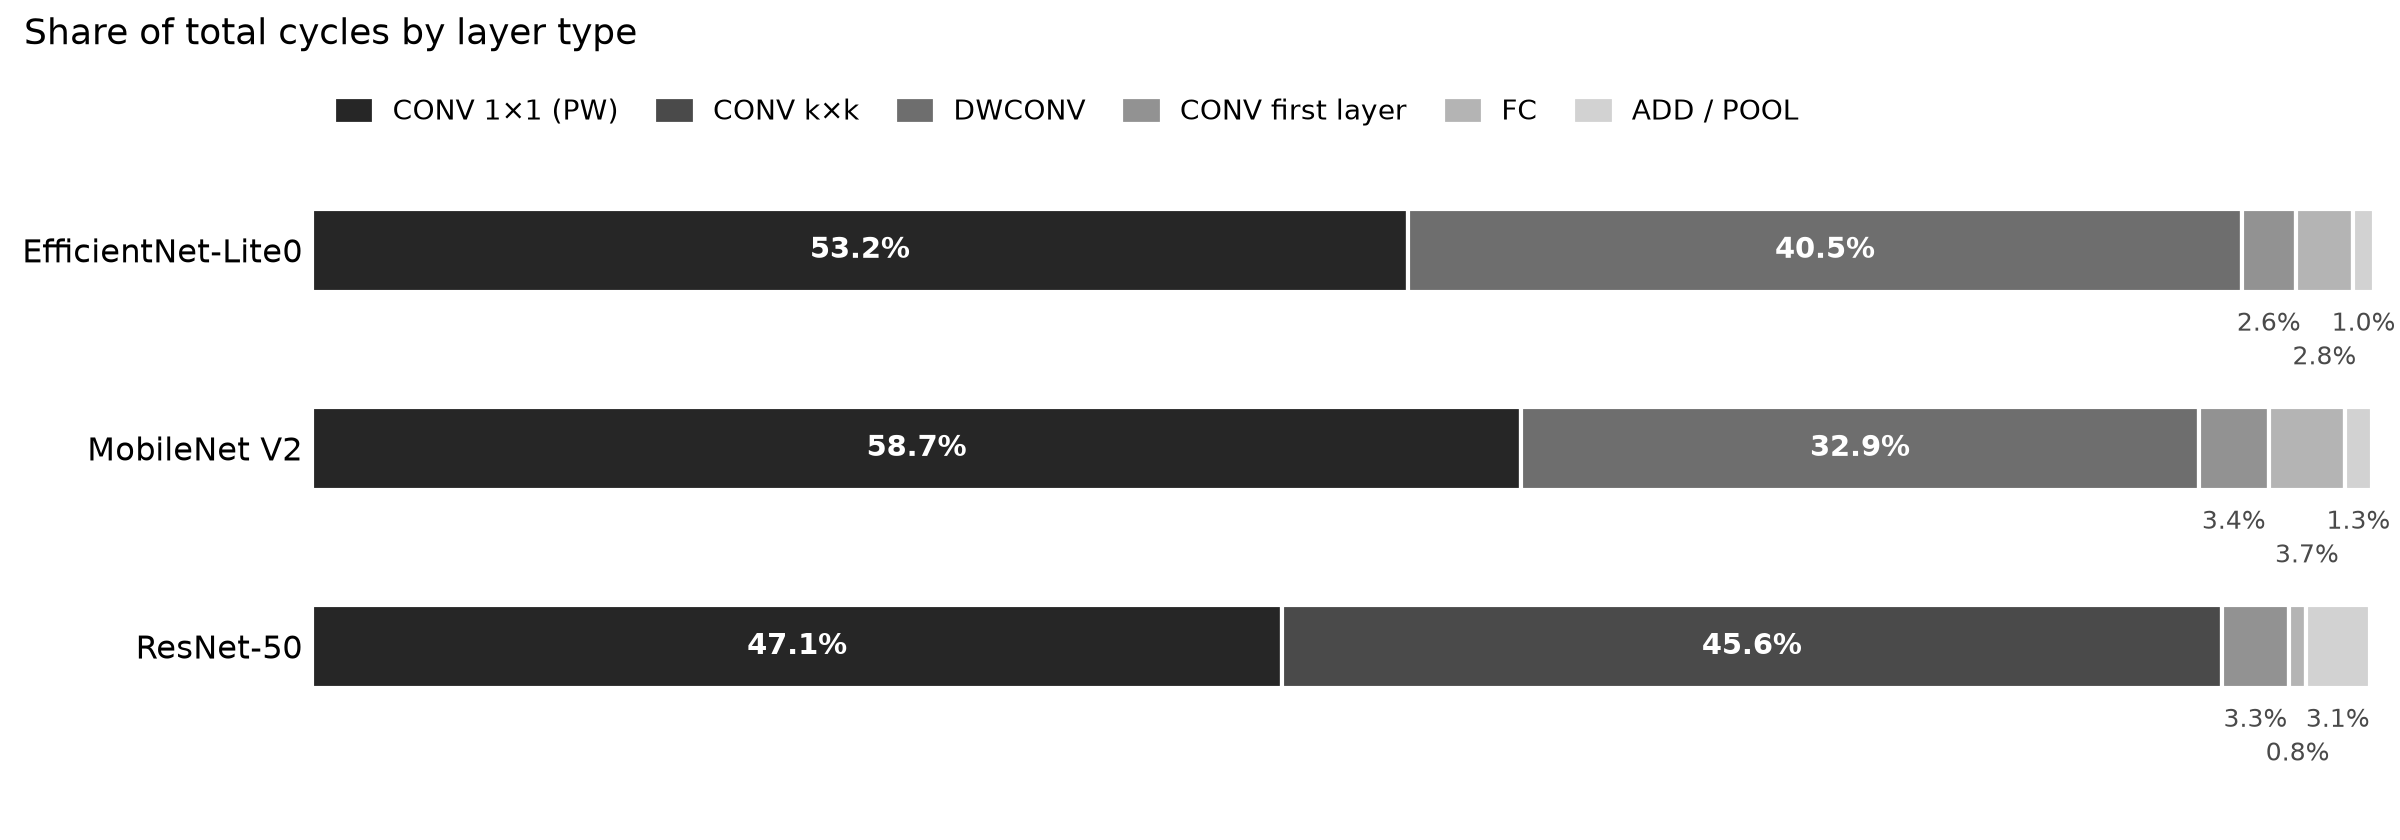
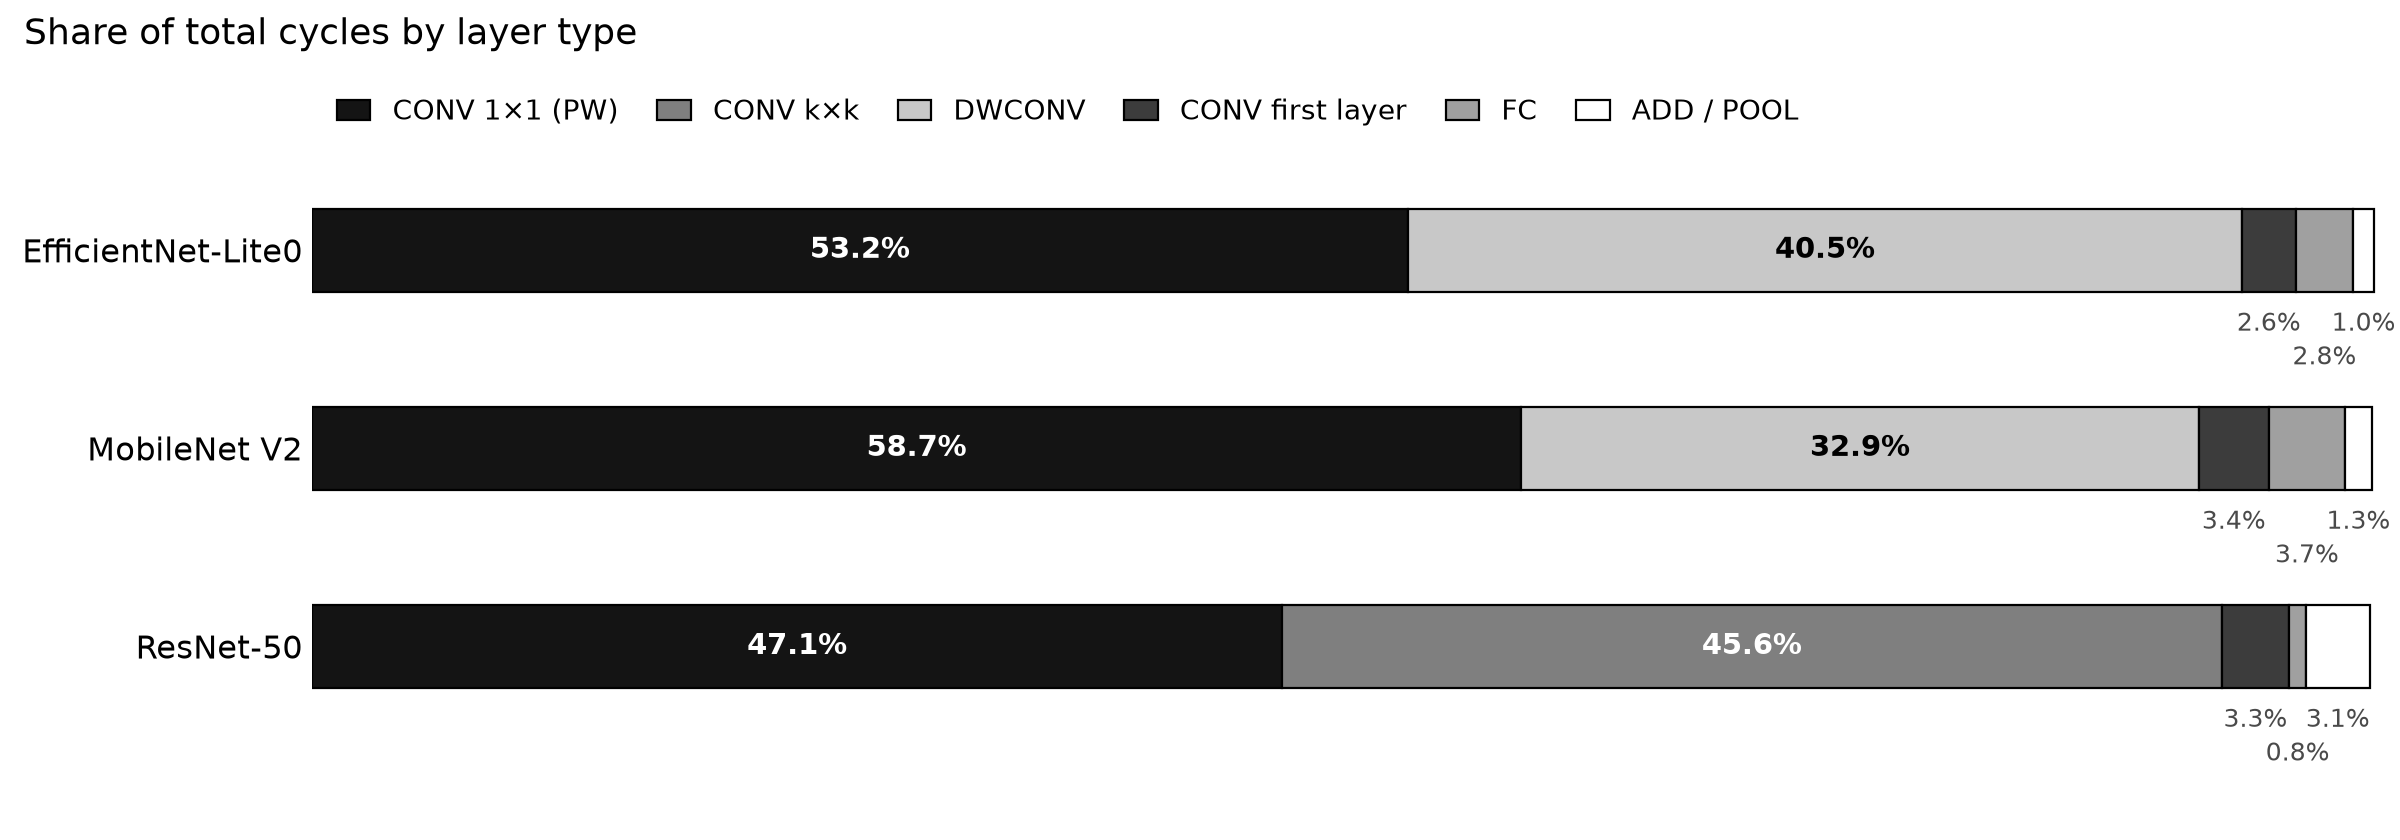
Update README table, PE array naming in figure, layer share chart colors

diff --git a/hw/draw_system_architecture.py b/hw/draw_system_architecture.py
@@ -95,7 +95,7 @@ class Figure:
 
     def array(self, key, x, y, w, h, index):
         self.rect(key, x, y, w, h)
-        self.text(x + w/2, y + 37, f'WS array {index}', 31, bold=True)
+        self.text(x + w/2, y + 37, f'PE array {index}', 31, bold=True)
         self.text(x + w/2, y + 76, '8 × 8 INT8 MACs', 27)
         cell, gap = 12, 7
         grid_w = cell*8 + gap*7

diff --git a/README.md b/README.md
@@ -23,7 +23,7 @@ It runs EfficientNet-Lite0, MobileNet V2 and ResNet-50 end-to-end on the acceler
 | | Input loader, Weight / coef. loader | Writes DDR data into the free bank of each SRAM |
 | | Write DMA | Writes INT8 outputs |
 | Datapath | Matrix AGU | Weight preload, im2col, padding and byte alignment |
-| | WS array ×2 + ACC ×2 | 8×8 INT8 MACs, INT32 accumulation (accumulate / overwrite) |
+| | PE array ×2 + ACC ×2 | 8×8 INT8 MACs, INT32 accumulation (accumulate / overwrite) |
 | | Vector AGU + Vector unit | ADD / MAXPOOL / AVGPOOL |
 | | Drain / quantization | ACC → quantization → output layout assembly |
 
@@ -83,15 +83,15 @@ Measured on a ZedBoard at 100 MHz with ImageNet val images 1–1000.
 
 ### Performance breakdown
 
-| Metric | EfficientNet-Lite0 | MobileNet V2 | ResNet-50 | Mean | Row |
-|---|---:|---:|---:|---:|---:|
-| Array active cycles | 79.7% | 74.9% | 94.1% | 82.9% | 1 |
-| Useful MACs (PE utilization) | 47.7% | 49.0% | 93.7% | 63.5% | 2 |
-| Unused MACs | 32.0% | 26.0% | 0.4% | 19.5% | 3 |
-| Tile switch cycles | 5.5% | 4.9% | 1.2% | 3.9% | 4 |
-| Non-matrix cycles | 14.8% | 20.2% | 4.6% | 13.2% | 5 |
-| Output write stalls | 19.2% | 25.2% | — | — | 6 |
-| GOPS (25.6 peak) | 12.21 | 12.53 | 24.00 | 16.25 | 7 |
+| Metric | EfficientNet-Lite0 | MobileNet V2 | ResNet-50 | Row |
+|---|---:|---:|---:|---:|
+| Array active cycles | 79.7% | 74.9% | 94.1% | 1 |
+| Useful MACs (PE utilization) | 47.7% | 49.0% | 93.7% | 2 |
+| Unused MACs | 32.0% | 26.0% | 0.4% | 3 |
+| Tile switch cycles | 5.5% | 4.9% | 1.2% | 4 |
+| Non-matrix cycles | 14.8% | 20.2% | 4.6% | 5 |
+| Output write stalls | 19.2% | 25.2% | — | 6 |
+| GOPS (25.6 peak) | 12.21 | 12.53 | 24.00 | 7 |
 
 - Row 1: cycles in which an input row enters the array
 - Row 2: MACs / (total cycles × 128)
